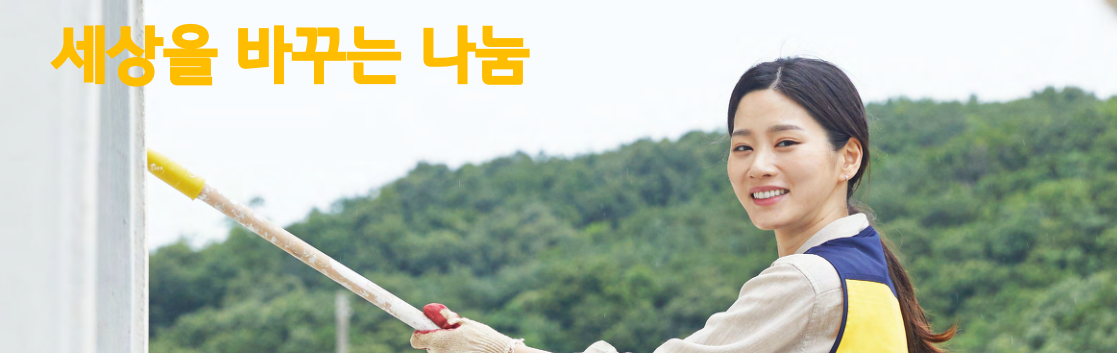
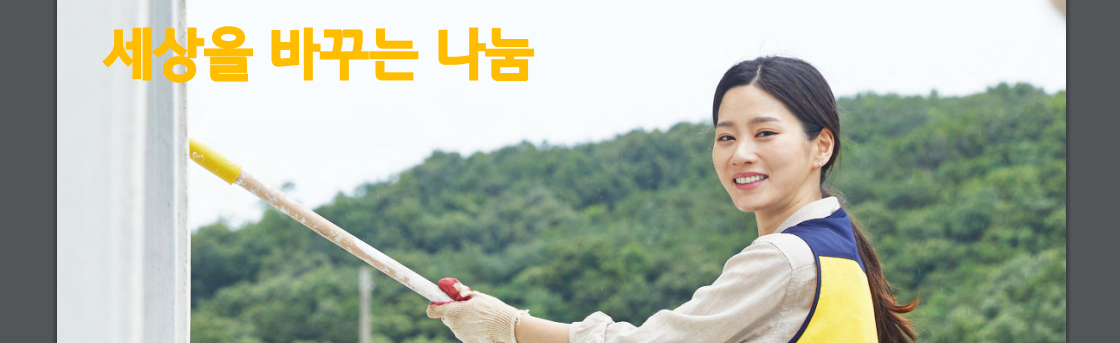
메인 사진 변경

diff --git a/src/components/SideView.vue b/src/components/SideView.vue
@@ -1,10 +1,17 @@
 <template>
-  <div class="slide-wrapper" style="margin-top: 30px;">
+  <div class="slide-wrapper" style="margin-top: 30px">
     <div class="slide-container" ref="slide">
-      <div v-for="{ id, background, src } in slideData" :key="id" class="slide-item">
+      <div
+        v-for="{ id, background, src } in slideData"
+        :key="id"
+        class="slide-item"
+      >
         <div class="image-container">
-          <img :src="src" class="slide-image" style="margin-top: 50px;"/>
-          <div class="background-layer" :style="{ background: background }"></div>
+          <img :src="src" class="slide-image" style="margin-top: 50px" />
+          <div
+            class="background-layer"
+            :style="{ background: background }"
+          ></div>
         </div>
       </div>
     </div>
@@ -25,10 +32,10 @@ export default {
   setup() {
     const slide = ref(null);
     const slideData = [
-      { id: "event_0", background: "#34568B", src: main1 },
-      { id: "event_1", background: "#FF6F61", src: main2 },
-      { id: "event_2", background: "#6B5B95", src: main3 },
-      { id: "event_3", background: "#88B04B", src: main4 },
+      { id: "event_0", background: "rgba(105, 156, 238, 0.3)", src: main1 },
+      { id: "event_1", background: "rgba(231, 124, 124, 0.3)", src: main2 },
+      { id: "event_2", background: "rgba(65, 201, 130, 0.3)", src: main3 },
+      { id: "event_3", background: "rgba(255, 189, 69, 0.3)", src: main4 },
     ];
     const slideSize = slideData.length;
     let currentSlideIndex = 0;
@@ -90,7 +97,6 @@ export default {
   scroll-behavior: smooth;
 }
 
-
 .slide-container::-webkit-scrollbar {
   display: none;
 }
@@ -127,7 +133,7 @@ button.prev {
   position: absolute;
   left: 0;
   top: calc(50% - 32px);
-  background-color: rgba(0, 0, 0, 0.15);
+  background-color: transparent; /* 회색 배경 제거 */
   width: 40px;
   height: 64px;
   outline: none;
@@ -139,7 +145,7 @@ button.next {
   position: absolute;
   right: 0;
   top: calc(50% - 32px);
-  background-color: rgba(0, 0, 0, 0.15);
+  background-color: transparent; /* 회색 배경 제거 */
   width: 40px;
   height: 64px;
   outline: none;
